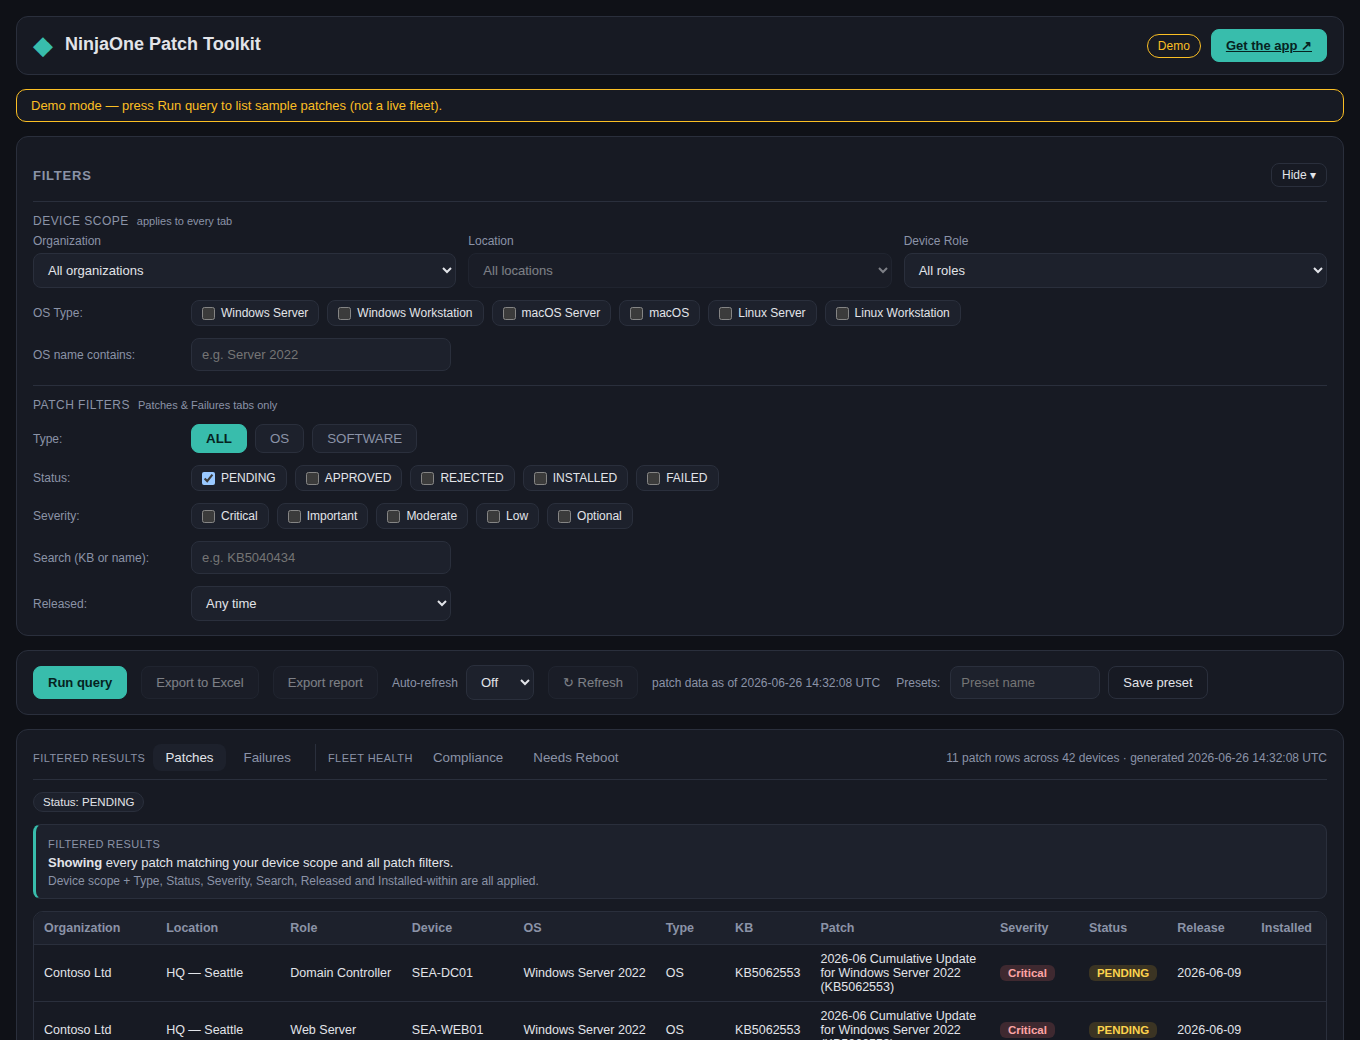
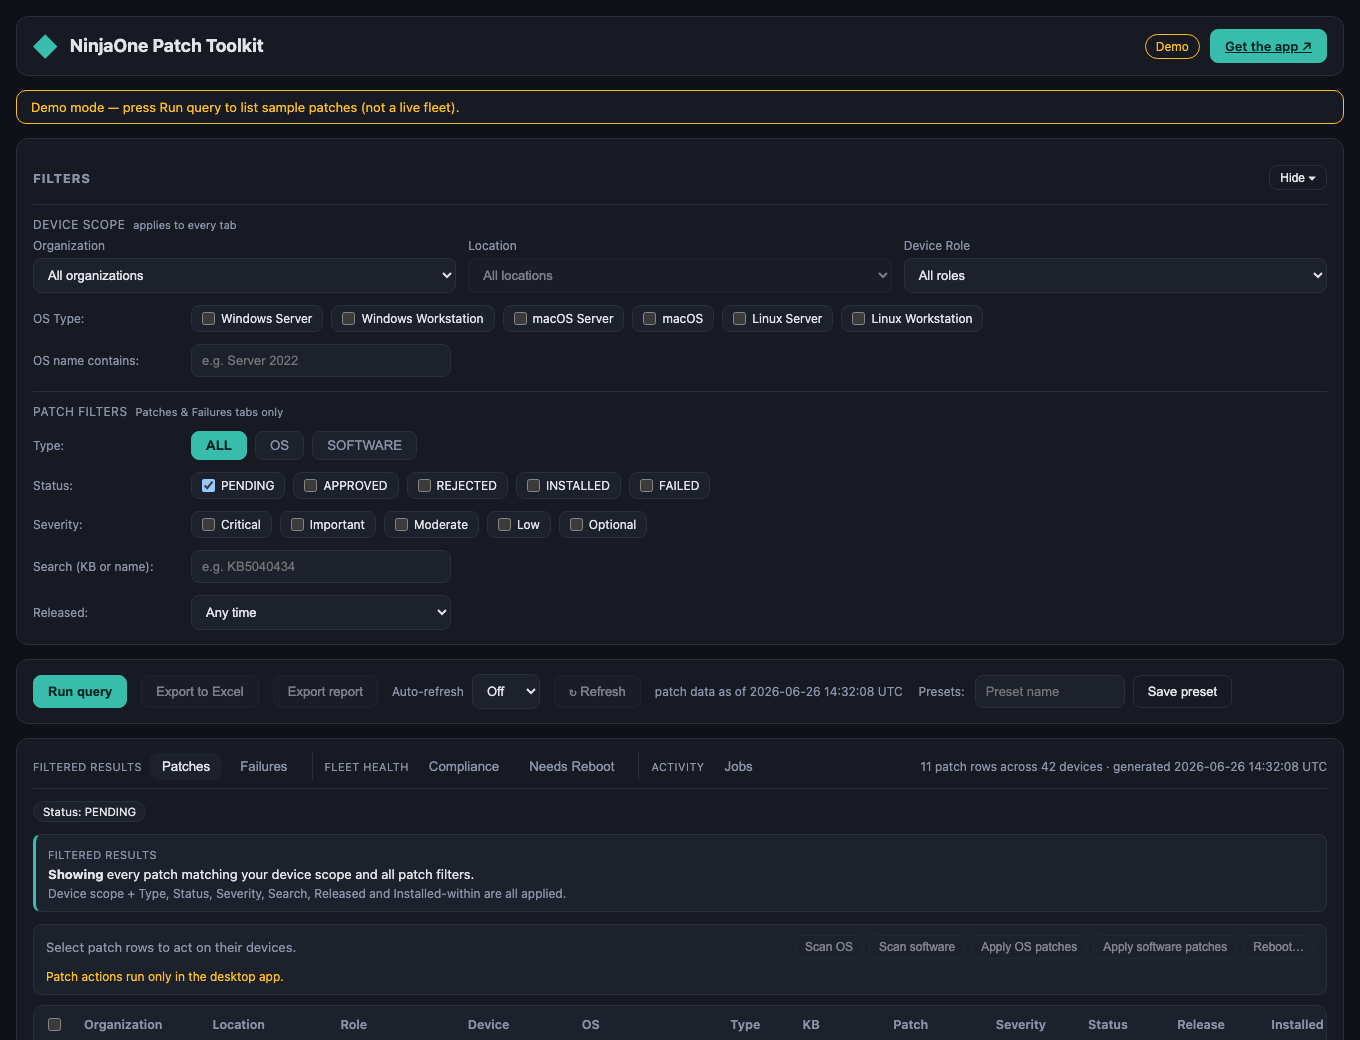
docs: document patch actions, the scope change and the new guardrails
AGENTS.md gains a "Write path (patch actions)" section covering the rules that
are load-bearing and non-obvious: there is no per-KB apply endpoint, every POST
must use `ReplaySafety::ActOnce`, confirm tokens are payload-bound, guardrails
belong in `actions::plan` rather than in a dialog, and a mutating action needs
targeted cache invalidation rather than `clear_lookups_cache`.

README documents enabling the feature, including the step that is easy to miss:
adding the Management scope and toggling the setting are not enough on their
own, because the refresh grant never re-sends the scope — you have to
re-authorize.

TROUBLESHOOTING covers what operators will actually hit: greyed-out buttons and
which of the four causes it is, 403s after re-authorizing, "not applicable for
os apply", a script that ran but installed nothing (exit 1 means it never
received its parameters), jobs stuck on Running, and why an Unknown job is
never retried. It also warns that two files in `ninjaone-scripts` share the
name `Install-CriticalSecurityUpdates.ps1` and only one takes command-line
arguments — which is why the script is bound by numeric id, not by name.

Screenshot regenerated to show the action bar and Jobs tab.

diff --git a/AGENTS.md b/AGENTS.md
@@ -37,7 +37,10 @@ Key files to read before editing:
   and field/status enums against the official spec — never infer them from endpoint names or memory:**
   the rendered docs are <https://app.ninjarmm.com/apidocs/?links.active=core> and the raw OpenAPI is
   <https://app.ninjarmm.com/apidocs-beta/NinjaRMM-API-v2.yaml> (grep it; the SPA can't be scraped).
-- **Auth / PKCE / keyring?** `src-tauri/src/auth.rs` + `src-tauri/src/state.rs` (`AppState`).
+- **Auth / PKCE / keyring / scope?** `src-tauri/src/auth.rs` + `src-tauri/src/state.rs` (`AppState`).
+- **Device action (apply / reboot / run script)?** `src-tauri/src/actions.rs` (guardrails +
+  job model) → `src-tauri/src/api/actions.rs` (the POSTs) → `src-tauri/src/commands/actions.rs`
+  (plan/confirm/dispatch/poll) → `web-rs/src/app/actions.rs` (UI).
 - **Fleet filter (`df` DSL) / OS-name facet?** `src-tauri/src/filter.rs`.
 - **Device↔patch join, compliance, SLA, reboot rollups?** `src-tauri/src/rows.rs`.
 - **Excel export?** `src-tauri/src/export.rs` (reads `state.last_result`).
@@ -49,12 +52,16 @@ Key files to read before editing:
 src-tauri/                       # Tauri 2 backend (native target)
 ├── src/lib.rs                   # Tauri builder, tracing init, generate_handler![] registry
 ├── src/main.rs                  # binary entry → lib::run()
-├── src/state.rs                 # AppState: auth, api client, settings (Mutex), last_result + whole-fleet device/current-patch caches
-├── src/auth.rs                  # OAuth2 PKCE (S256, loopback redirect), keyring, token refresh
+├── src/state.rs                 # AppState: auth, api client, settings (Mutex), last_result + whole-fleet device/current-patch caches + tenant-stamped job store & confirm-token slot
+├── src/auth.rs                  # OAuth2 PKCE (S256, loopback redirect), keyring, token refresh, conditional scope + management-grant detection
+├── src/actions.rs               # device-action domain: ActionKind/JobState/JobReport, pure `plan()` guardrails, build_parameters, activity correlation
+├── src/actions/audit.rs         # append-only action-audit.jsonl (parameters redacted)
 ├── src/api/                     # NinjaOne Public API client
-│   ├── mod.rs                   # NinjaApiClient: /api/v2, bearer, retry (timeout/429/401), cursor paging
+│   ├── mod.rs                   # NinjaApiClient: /api/v2, bearer, retry (timeout/429/401 + ReplaySafety), cursor paging
 │   ├── devices.rs               # device inventory (df filter)
 │   ├── patches.rs               # current patches + install-history endpoints
+│   ├── actions.rs               # WRITE path: patch scan/apply, reboot, script/run, automation-script library
+│   ├── activities.rs            # /activities feed used to resolve dispatched jobs
 │   └── lookups.rs               # orgs / locations / roles / node classes
 ├── src/filter.rs                # FilterParams → install-query df DSL + client-side device_allowed (identity scope) / OS-name / KB-search facets
 ├── src/model.rs                 # domain types (Device, Patch, PatchType, PatchStatus, …)
@@ -63,7 +70,7 @@ src-tauri/                       # Tauri 2 backend (native target)
 ├── src/report.rs                # standalone HTML executive report (inline SVG charts) from the cached QueryResult
 ├── src/settings.rs              # persisted Settings (instance, client id, ports, windows, presets)
 ├── src/error.rs                 # UiError { message } — the IPC error shape
-├── src/commands/                # #[tauri::command] handlers (auth, lookups, patches, export, settings, update)
+├── src/commands/                # #[tauri::command] handlers (actions, auth, lookups, patches, export, settings, update)
 ├── tauri.conf.json              # CSP, bundle targets, before{Dev,Build}Command (Trunk), updater (pubkey/endpoint)
 ├── updater-build.json           # release-only overlay: createUpdaterArtifacts on (signing required)
 ├── build.rs                     # tauri-build
@@ -73,7 +80,8 @@ web-rs/                          # Leptos 0.8 CSR frontend — separate wasm32 c
 ├── src/main.rs                  # entry, theme, root mount
 ├── src/app.rs                   # module decls, shared consts, App root + startup wiring
 ├── src/app/                     # state + view components as descendant modules of `app`
-│   ├── state.rs                 # AppState wrapper (single context) + 8 Copy sub-structs grouped by concern (session/lookups/filters/query/run/settings/updates/ui) + Tab/AppliedFilters/Toast/Progress
+│   ├── state.rs                 # AppState wrapper (single context) + 9 Copy sub-structs grouped by concern (session/lookups/filters/query/run/settings/updates/ui/actions) + Tab/AppliedFilters/Toast/Progress/DeviceSelection
+│   ├── actions.rs               # ActionBar (device selection), ConfirmActionModal, ScriptPicker, JobsTable
 │   ├── header.rs                # Header (sign-in/out, settings toggle)
 │   ├── controls.rs              # RunControls + PresetRow (run/refresh cadence, exports, presets)
 │   ├── filters.rs               # Filters panel
@@ -106,6 +114,15 @@ scripts/                         # dev/CI tooling (not shipped)
 
 - **New NinjaOne endpoint** — add a method on `NinjaApiClient` (`api/<domain>.rs`); reuse
   `get_paginated` / `request_raw` rather than hand-rolling reqwest + retry + cursor logic.
+
+- **New device action** — 4 steps, and the middle two are what keep it safe:
+  1. Add the POST to `api/actions.rs` via `post_action` / `post_json` (both pass
+     `ReplaySafety::ActOnce` — never call `request_raw` with `Idempotent` for a write).
+  2. Add a variant to `actions::ActionKind` and make `is_mutating()` / `supports_dry_run()`
+     answer correctly — those two decide whether the confirm gate, the blast-radius cap, the
+     org-span cap and the maintenance window apply.
+  3. Dispatch it from the `match kind` in `commands::actions::run_action`.
+  4. Add the button to `web-rs/src/app/actions.rs::ACTION_BUTTONS`.
 
 - **New filter facet** — an identity/scope facet (matched against a cached device) extends
   `FilterParams::device_allowed` (+ `has_identity_scope`) and, if the install-history `df` honors it,
@@ -224,8 +241,46 @@ secrets are **not** stored there — see below).
 - **Auth: PKCE, lazy token, Native-or-Web client.** `AuthState::access_token()` refreshes lazily
   before each call. Sign-in is the interactive S256 PKCE flow with a **loopback** redirect on the
   configured `callback_port` (default `11434`); a hung sign-in usually means the callback never
-  arrived. Scope is read-only `monitoring offline_access`. **Native** (public) clients have **no**
-  secret; **Web** (confidential) clients do — the app supports both, so don't hardcode either.
+  arrived. **Native** (public) clients have **no** secret; **Web** (confidential) clients do —
+  the app supports both, so don't hardcode either.
+  - **Scope is conditional, and the refresh grant never re-sends it (load-bearing).**
+    `scope_for(actions_enabled)` picks `monitoring offline_access` or
+    `monitoring management offline_access`; `settings.actions.enabled` (default **false**) is
+    what flips it, which is why adding the write path didn't break existing installs. The
+    refresh grant does **not** send `scope`, so an install that signed in before actions were
+    enabled keeps its read-only grant silently and every write 403s. `AuthState::management_grant()`
+    detects this from the token response's `scope` (RFC 6749 §5.1, self-healing on each refresh)
+    with a JWT-claim fallback; `None` means *unknowable*, not *denied*, and the UI words the two
+    differently. `commands::auth::reauthorize` drops the keyring refresh token **first** so the
+    browser flow must issue a fresh grant.
+
+- **Write path (patch actions) — load-bearing rules.** The feature is opt-in
+  (`settings.actions.enabled`, default false) and every command re-checks
+  `require_actions_enabled` — a stale frontend must not be able to widen the blast radius.
+  - **There is no per-KB apply endpoint.** `/device/{id}/patch/{os,software}/apply` installs
+    everything approved on the device. Targeting specific KBs is possible **only** via a
+    library script declaring a `kbAllowList` variable (`AutomationScript::accepts_kb_allow_list`
+    gates whether the UI may offer it). This is why **checking a patch row selects that row's
+    *device***, and why the UI says so.
+  - **`ReplaySafety::ActOnce` on every POST.** `request_raw`'s timeout arm would otherwise
+    replay the body and re-run the action; 429/401 still replay (the gateway rejected before
+    the device queue). A timed-out dispatch becomes `JobState::Unknown` — polled, never
+    auto-retried.
+  - **Confirm tokens are payload-bound and single-use.** `plan_action` hashes
+    (kind ‖ sorted device ids ‖ script ref ‖ parameters ‖ reboot mode ‖ dry_run) into a
+    5-minute token; `run_action` re-plans from scratch and re-checks the hash. Editing the
+    selection after the dialog opened invalidates the approval rather than widening it.
+  - **Guardrails live in `actions::plan`**, which is pure with an injected clock. Adding one
+    means extending `blockers`/`warnings` there, not adding a dialog.
+  - **After a mutating action, call `invalidate_current_patches()`** (and
+    `invalidate_fleet_devices()` after a reboot) — `clear_lookups_cache()` is too blunt, and
+    the 120 s current-patch TTL would otherwise serve pre-action data. `last_result` is
+    deliberately *not* dropped; the frontend raises a stale-results banner instead.
+  - **Job state is tenant-stamped** in `AppState.jobs`, mirroring `last_result` — a tenant
+    switch reads as a miss. The poller is single-claim (`try_claim_job_poller`) and emits
+    `action:progress` (no capability change needed; `core:event:default` already covers it).
+  - **NinjaOne v2 has no script-output endpoint.** A job resolves from `/activities` only, so
+    surface the exit code plus the activity/series correlator.
 
 - **NinjaOne API client — reuse the shared retry + pagination.** Every call goes through
   `NinjaApiClient` (`api/mod.rs`): `{base}/api/v2{path}`, bearer auth, retry on timeout / 429

diff --git a/README.md b/README.md
@@ -19,8 +19,9 @@ lists individual patches per server, and exports to Excel.
 ## Features
 
 - **PKCE OAuth 2.0** against `/ws/oauth/authorize` + `/ws/oauth/token` (S256, loopback
-  redirect). Read‑only scope `monitoring offline_access`. Refresh token stored in the OS
-  keyring; the client secret is optional (Native app registrations have none).
+  redirect). Read‑only scope `monitoring offline_access` by default; `management` is added
+  only when you switch on **Patch actions**. Refresh token stored in the OS keyring; the
+  client secret is optional (Native app registrations have none).
 - **Advanced filtering** — Organization, Location, Device Role, and OS Type. OS Type is
   both the coarse NinjaOne node‑class facet (pushed into the `df` query) and a granular,
   client‑side OS‑name substring filter.
@@ -34,6 +35,9 @@ lists individual patches per server, and exports to Excel.
   - Reboot & failure views (devices pending reboot; `FAILED` patches).
   - Compliance & SLA aging — per‑org compliance % and aged Critical/Important backlog.
   - Saved filter presets and optional auto‑refresh.
+- **Patch actions** *(opt‑in — see [Patch actions](#patch-actions))* — select patch rows and
+  scan, apply, reboot, or run any script from the tenant's automation library, then watch
+  each dispatch to a terminal state in the **Jobs** tab.
 
 ## Architecture
 
@@ -60,7 +64,8 @@ Create an API client in NinjaOne: **Administration → Apps → API → Client A
   re‑authenticating every hour. (Don't pick a client‑credentials / machine‑to‑machine app — it has
   no authorization‑code flow, and the sign‑in page will 404.)
 - **Scopes:** **`Monitoring`** (read‑only). The app additionally requests `offline_access` at
-  sign‑in to obtain the refresh token.
+  sign‑in to obtain the refresh token. Add **`Management`** only if you intend to use
+  [Patch actions](#patch-actions) — the app requests it solely when that feature is enabled.
 - **Redirect URI:**
   - *Native:* not configurable — NinjaOne registers it as **`http://127.0.0.1`** and accepts any
     port (the app listens on `http://127.0.0.1:<callback port>`, default `11434`).
@@ -110,12 +115,64 @@ just coverage     # backend test coverage (cargo-llvm-cov) → summary + lcov re
 Intel (x86_64) binary. Windows (.msi/.nsis) and Linux (AppImage) are x86_64. Building from
 source works on any platform Tauri supports, including Intel Macs.
 
+## Patch actions
+
+Off by default. The toolkit is a read‑only reporting tool until you enable this in
+**Settings → Patch actions**, and an install that never opens that panel keeps requesting
+the read‑only scope.
+
+**Enabling it:**
+
+1. Add the **`Management`** scope to your API app in NinjaOne (**Administration → Apps →
+   API**). Without it the write endpoints return 403.
+2. Switch on **Patch actions** in Settings and save.
+3. Choose **Re‑authorize**. This step is not optional: the OAuth refresh grant never
+   re‑sends `scope`, so an existing sign‑in keeps its read‑only grant until you consent
+   again.
+
+**What you can do.** Tick patch rows in the **Patches** tab, then use the action bar. Note
+that ticking a row selects that row's **device** — NinjaOne's API has no per‑patch apply
+endpoint, so `Apply OS patches` installs everything approved for the device.
+
+| Action | Endpoint | Notes |
+|---|---|---|
+| Scan OS / software | `POST /device/{id}/patch/*/scan` | Read‑only on the device; no confirmation needed. |
+| Apply OS / software patches | `POST /device/{id}/patch/*/apply` | Installs every approved patch on the device. |
+| Reboot | `POST /device/{id}/reboot/{mode}` | Requires a reason, recorded in NinjaOne's activity feed. `FORCED` needs a typed confirmation. |
+| Run script | `POST /device/{id}/script/run` | Any script in the tenant's automation library. |
+
+**Targeting specific KBs** needs a library script that accepts a `kbAllowList` variable —
+the toolkit detects this from `/automation/scripts` and only offers per‑KB targeting for
+scripts that declare it. NinjaOne has **no script‑upload API**, so add the script by hand
+under **Administration → Library → Automation**, give it String/Overridable `kbAllowList`,
+`rebootBehavior` and `dryRun` variables, and paste the numeric ID from its URL into
+Settings.
+
+**Guardrails**, all enforced in the Rust backend rather than the UI:
+
+- Dry run is the default for scripts. The native endpoints have no preview mode, so a
+  "dry run" of them is refused outright instead of pretending.
+- Every mutating action needs a confirmation token bound to that exact device set and
+  parameter string, single‑use and valid for five minutes.
+- Blast‑radius cap (default 25 devices) and org‑span cap (default 1) are hard blockers.
+- Offline devices are skipped by default — NinjaOne *queues* work for them, so an action
+  sent now can restart a machine hours later.
+- An optional maintenance window gates every change.
+- A dispatch whose POST times out is recorded as **Unknown** and never retried: it may
+  already be running on the device.
+
+There is no script‑output endpoint in the NinjaOne v2 API, so the Jobs tab reports the exit
+code and links you to the activity/job ID to look the run up in the NinjaOne console.
+
 ## Security
 
 - Access tokens are kept in memory; the refresh token and optional client secret live in
   the OS keyring (Keychain / Credential Manager / Secret Service). Nothing sensitive is
   written to `settings.json`.
-- The app requests read‑only (`monitoring`) scope only.
+- The app requests read‑only (`monitoring`) scope unless **Patch actions** is enabled, which
+  adds `management`. Turning the feature off returns it to read‑only at the next sign‑in.
+- Every dispatched action is appended to `action-audit.jsonl` beside `settings.json`, with
+  credential‑shaped script parameters redacted. Tokens are never written there.
 
 ## Updates
 

diff --git a/docs/TROUBLESHOOTING.md b/docs/TROUBLESHOOTING.md
@@ -81,13 +81,76 @@ Offline devices are **excluded from the compliance denominator** — they can't 
 patches and report no current-patch records, so scoring them would distort the metric.
 A device counts as compliant when it has **zero** pending/approved patches.
 
+## Patch actions
+
+### The action buttons are greyed out
+
+The bar under the tabs says which of these it is:
+
+- *"Patch actions are disabled"* — switch them on in **Settings → Patch actions**.
+- *"Your NinjaOne sign-in is read-only"* — choose **Re-authorize**. Enabling the feature
+  changes only what the **next** sign-in asks for; the OAuth refresh grant never re-sends
+  the scope, so your existing grant stays read-only until you consent again.
+- *"Couldn't confirm your sign-in grants the Management scope"* — your tenant issues an
+  opaque access token, so the app can't read the granted scope. Re-authorize to be sure.
+- *"Patch actions run only in the desktop app"* — you're in the hosted web demo.
+
+### Everything 403s after re-authorizing
+
+The **`Management`** scope isn't enabled on the API app itself. Add it in NinjaOne under
+**Administration → Apps → API**, then re-authorize again. If NinjaOne rejects the sign-in
+with `invalid_scope`, that is the same cause.
+
+### "Device is not applicable for os apply"
+
+NinjaOne returned 400 for that device: it has no approved OS patches waiting, its patch
+policy doesn't cover OS patching, or the agent doesn't support it (common on non-Windows
+node classes). Run **Scan OS** first, re-query, and check the device actually has pending
+patches.
+
+### The script ran but nothing was installed
+
+Check the exit code in the **Jobs** tab. `Install-CriticalSecurityUpdates.ps1` returns **1**
+for a *configuration* error — meaning it never received its parameters. Either the library
+entry is missing the **String / Overridable** `kbAllowList`, `rebootBehavior` and `dryRun`
+script variables, or the script has no `param()` block to catch positional arguments.
+
+Also confirm you configured the right script: two files in `ninjaone-scripts` share the name
+`Install-CriticalSecurityUpdates.ps1`, and only the one under `Windows/Install/` accepts
+command-line arguments. Binding by numeric **ID** rather than name avoids picking the wrong
+one.
+
+### A job is stuck on "Running"
+
+The poller reads `/activities` every 15 seconds and gives up after 45 minutes. A device that
+is offline, or a long install, will sit in *Running* until then — that is expected, not a
+hang. Hover the status to get the NinjaOne activity/job ID and look the run up in the
+console; the v2 API exposes no script output, so that is where the detail lives.
+
+### A job says "Unknown"
+
+The dispatch request timed out **after** the body was sent, so NinjaOne may or may not have
+queued it. The toolkit deliberately does **not** retry these — a replay could install or
+reboot twice. Check the device's activity feed in NinjaOne before dispatching again.
+
+### An action was refused as "not confirmed"
+
+Confirmation tokens are single-use, expire after five minutes, and are bound to the exact
+device set and parameter string that was planned. Changing the selection (or leaving the
+dialog open too long) invalidates the approval. Re-open the action and confirm again.
+
 ## Credentials & storage
 
 - The **refresh token** and optional **client secret** live in the OS keyring (Keychain /
   Credential Manager / Secret Service) — never in `settings.json`. If the OS keyring is
   locked or unavailable, sign-in/refresh can fail; unlock it and retry.
 - `settings.json` holds only **non-secret** config (instance URL, client id, ports,
-  windows, presets). Deleting it resets those to defaults; it never holds a token.
+  windows, presets, patch-action guardrails). Deleting it resets those to defaults — including
+  turning patch actions back off — and it never holds a token.
+- `action-audit.jsonl` sits beside it and records one line per dispatched action, written
+  before the request goes out and again when it settles. Script parameters that look like
+  credentials (`*pass*`, `*secret*`, `*token*`, `*key*`) are redacted; tokens are never
+  written there. Delete it freely — nothing reads it back.
 
 ## Build & run (contributors)
 

diff --git a/CHANGELOG.md b/CHANGELOG.md
@@ -11,6 +11,34 @@ version and start a fresh `[Unreleased]`.
 
 ## [Unreleased]
 
+### Added
+
+- **Patch actions — remediate from the same place you find the problem.** Tick patch rows
+  and scan, apply, reboot, or run any script from your NinjaOne automation library, then
+  watch each dispatch reach a terminal state in the new **Jobs** tab. Ticking a row selects
+  its **device**: NinjaOne's API has no per-patch apply endpoint, so targeting specific KBs
+  means running a library script that accepts a `kbAllowList` variable — the toolkit detects
+  which scripts can and only offers per-KB targeting for those.
+- **Off by default, and it stays that way until you say otherwise.** The feature lives
+  behind **Settings → Patch actions**. Until you enable it the app requests the same
+  read-only scope it always has, so an existing install is unchanged. Enabling it adds the
+  `management` scope at the *next* sign-in — the app tells you when your current sign-in is
+  still read-only and offers **Re-authorize**, because the OAuth refresh grant never
+  re-sends the scope on its own.
+- **Guardrails, enforced in the backend rather than the dialog.** Dry run is the default for
+  scripts; a blast-radius cap (25 devices) and org-span cap (1) are hard blockers; offline
+  devices are skipped by default, since NinjaOne queues work for them and would otherwise
+  restart a machine hours later; forced reboots need a typed confirmation and a stated
+  reason, which lands in NinjaOne's own activity feed. Every dispatch is written to an audit
+  log before it goes out, with credential-shaped script parameters redacted.
+
+### Fixed
+
+- **A request that times out mid-flight is no longer re-sent.** The API client retried any
+  timed-out request, which was harmless for reads but would have re-run an action. Timed-out
+  actions are now reported as *Unknown* — never retried, since they may already be running
+  on the device — while reads retry exactly as before.
+
 ## [0.9.1] - 2026-07-02
 
 ### Fixed
